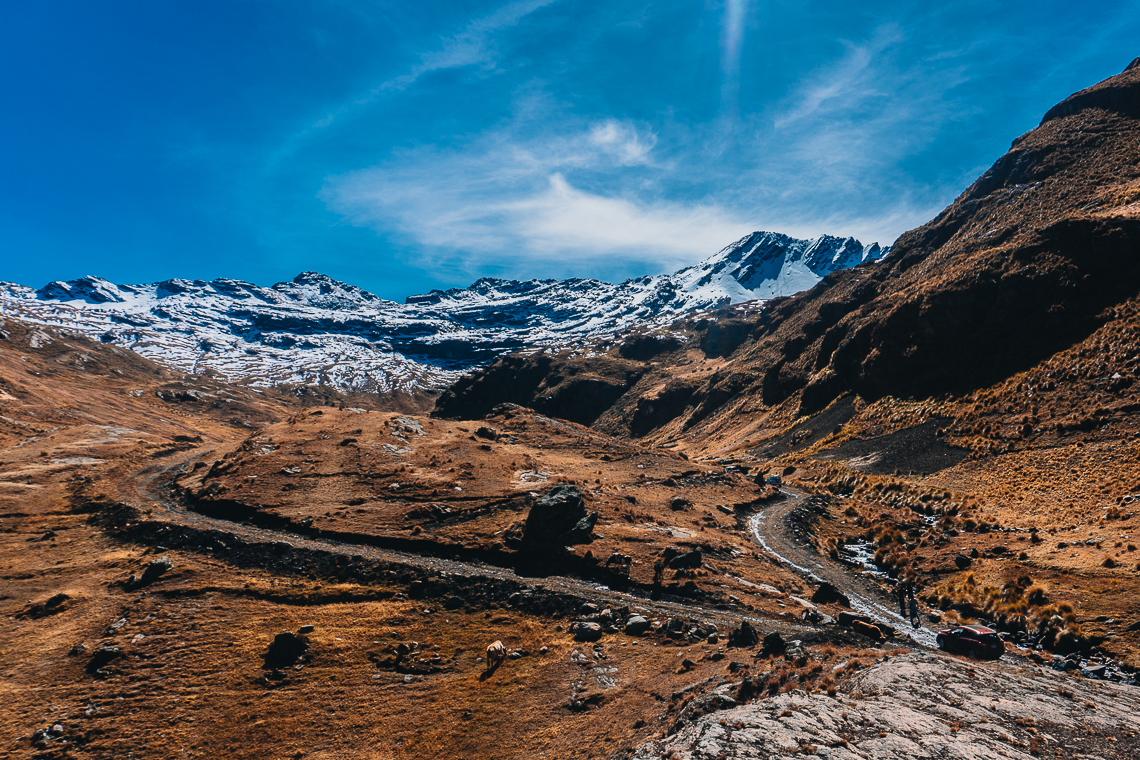
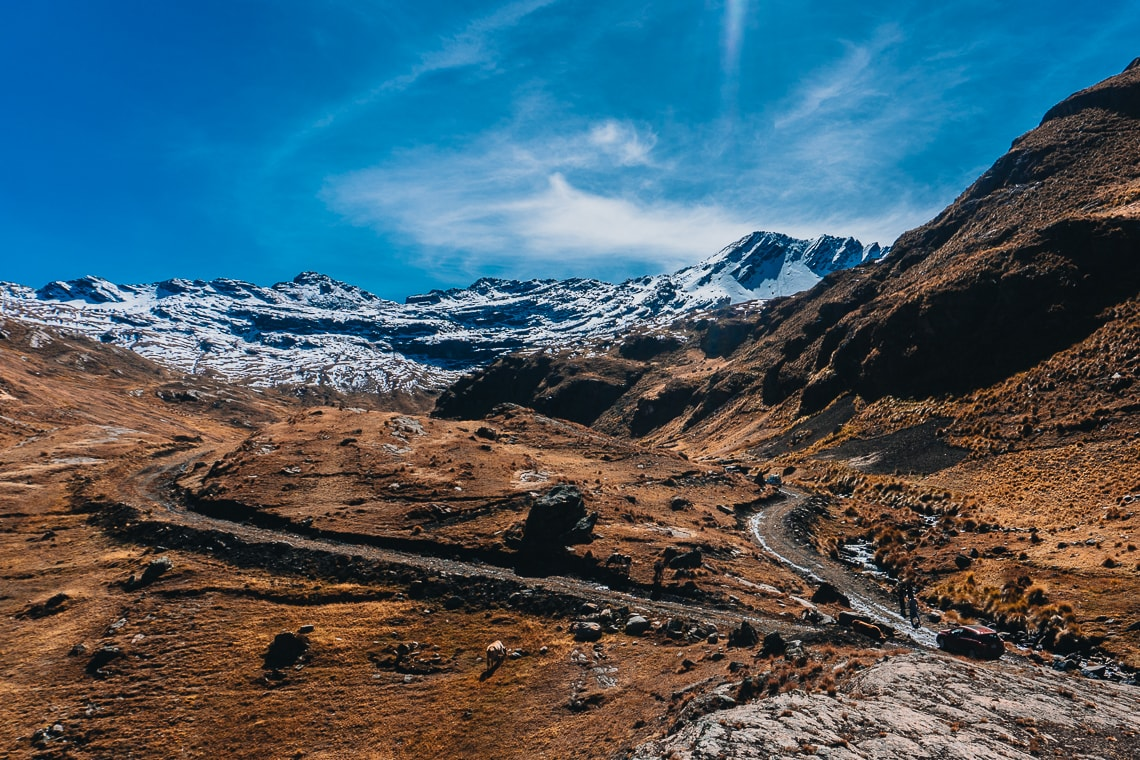
images optimized

diff --git a/public/scripts/index.js b/public/scripts/index.js
@@ -1,14 +1,14 @@
 
 
-$( document ).ready(function() {
+
+$(window).on("load", function() {
     const loader = document.querySelector('.is-page-loader');
     const nav = document.querySelector('nav');
     const content = document.querySelector('#container');
-
+    
     loader.classList.add('hide');
     nav.classList.remove('hide');
     content.classList.remove('hide');
-
-    particlesJS.load('particles-js', './scripts/particles.json', function() {});
     
+    particlesJS.load('particles-js', './scripts/particles.json', function() {});
 });
